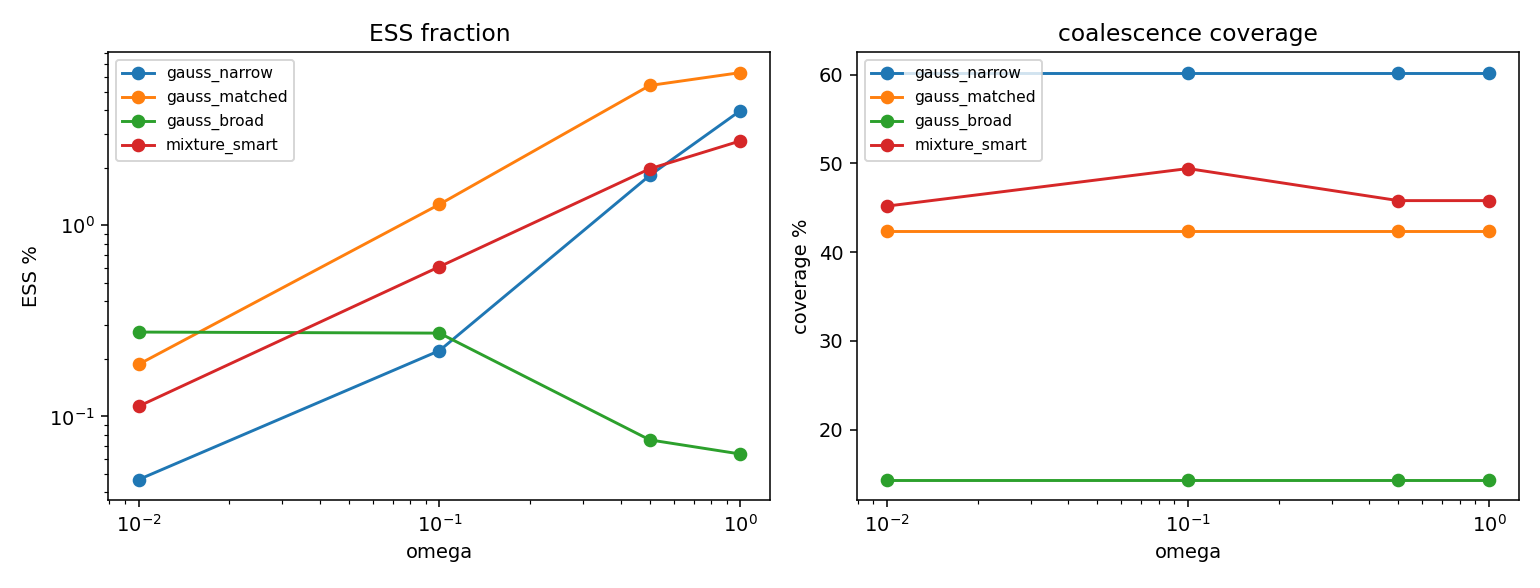
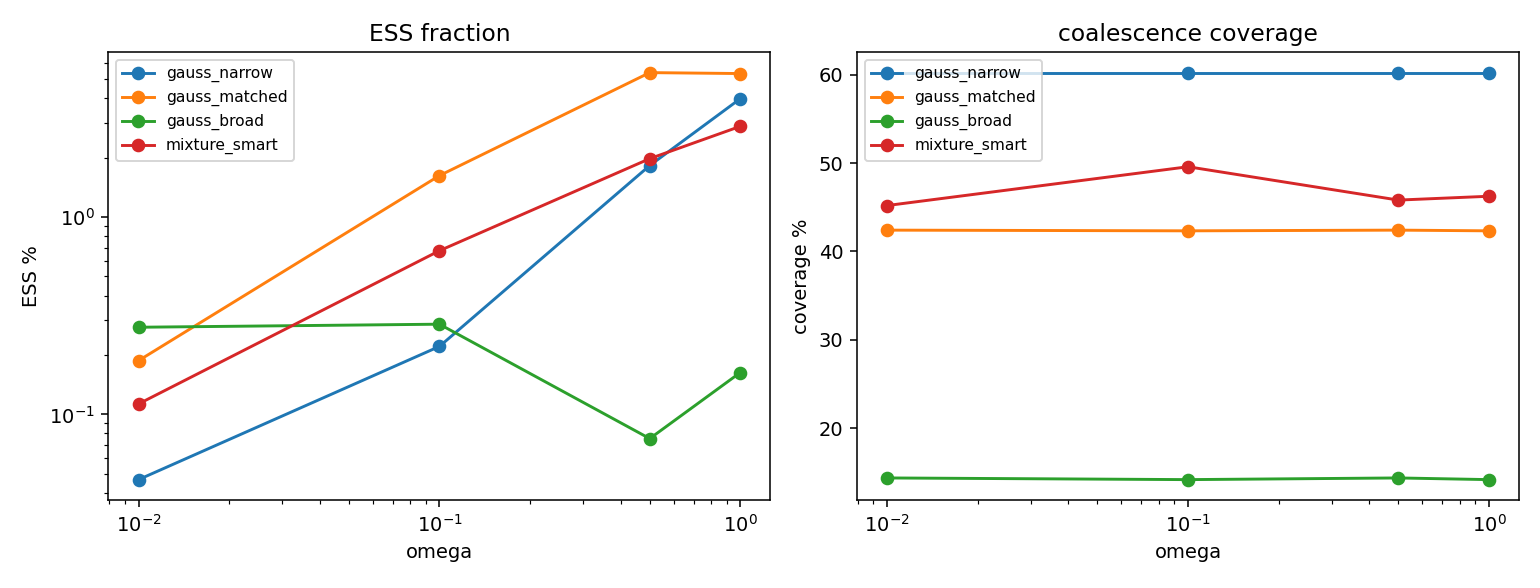
experiment(analysis): proposal kappa — ESS controls conditioning; matched Gaussian dominates mixture 600x
Context: every proposal with ESS>~1% has resolved kappa(A)~1e5; ESS<1% floors at ~1e8 (rank~ESS).
Matched Gaussian (1.3) beats the smart mixture ~600x in kappa and ~2x in ESS at w=0.1 -- but only by
under-covering the tails (coverage bias). Tradeoff is conditioning vs unbiased coverage; current
mixture is far off the efficient frontier. Journaled.

diff --git a/JOURNAL.md b/JOURNAL.md
@@ -24,6 +24,41 @@ The model reads this to understand what has been tried, what worked, what failed
 
 ## Journal
 
+### [2026-06-21b] — Smart proposal vs simple Gaussian: ESS is the conditioning lever, and the adaptive mixture is OFF the efficient frontier
+
+**Motivation:** If ESS/measure governs collocation conditioning (2026-06-21a), how much does the
+trainer's "smart" adaptive Gaussian mixture actually buy over a plain Gaussian? Quantify the
+coverage-vs-efficiency-vs-conditioning exchange-rate.
+**Method:** `scripts/exp_proposal_compare.py` on the N=6 cascade. Proposals: single Gaussian at
+sigma_f/sqrt(omega) for sigma_f in {1.0 narrow, 1.3 matched (= run_weak_form default), 2.5 broad}
+vs the adaptive multi-width mixture. Per (proposal, omega): ESS fraction (4096-draw), coalescence
+coverage (frac with min pair dist < 0.5 ell), tail reach (95th pct max radius / ell), and
+kappa(S)/kappa(A_strong) under that measure (omega in {1, 0.1}).
+**Results:** (i) **ESS controls conditioning directly**: every proposal with ESS >~1% has a
+*resolved* kappa(A)~1e5; every proposal with ESS <1% *floors* at kappa~1e8 (effective rank ~ ESS).
+(ii) **A single matched Gaussian (1.3) dominates the smart mixture on BOTH axes**: at omega=0.1,
+matched ESS=1.6% / kappa(A)=1.5e5 (resolved) vs mixture ESS=0.67% / kappa(A)=9.6e7 (floored) -- ~600x
+better conditioned and ~2x more efficient. (iii) **But matched wins by not covering the hard
+region**: its tail reach is fixed at 4 ell while the density needs 9.5 ell at omega=0.1 and 22 ell
+at omega=0.01; only the mixture's broad components reach there. Narrow (1.0) has the best
+coalescence coverage (60%) but the worst tail (3.1 ell).
+**Interpretation:** "Smart" sampling, as configured (adapt_sigma_fs tiers with very broad
+components), buys *negative* conditioning -- it pays ~600x in kappa and ~2x in ESS to gain tail
+coverage. The matched Gaussian's good conditioning is partly **coverage bias** (it never penalises
+the residual in the uncovered tails, so the solution can be wrong there). The real tradeoff is
+**conditioning vs unbiased coverage**, and the current mixture sits far off the efficient frontier:
+the broad components over-pay for reach. Actionable: the lever is the proposal; a matched core + a
+few targeted broad/coalescence components, or a learned flow (shellflow), should give the needed
+coverage at a fraction of the ESS/conditioning cost.
+**Caveats:** static adapt-tier widths (the trainer also *refits* the gmm / uses shellflow -- not
+tested here); coverage proxies are heuristic; kappa at 96 samples (resolved cases are trustworthy,
+floored cases are lower-bounded). Coverage "bias" is argued, not yet measured against exact tails.
+**Output reference:** [results/analysis/2026-06-21_proposal_compare/](results/analysis/2026-06-21_proposal_compare/)
+(compare.json, fig_proposal_compare.png)
+**Next question:** Does the matched Gaussian's better conditioning actually train to a *better or
+biased* solution vs the mixture (the conditioning-vs-coverage tradeoff, in real energy error)? And
+can a learned/shellflow proposal reach the efficient frontier (full coverage at matched-like ESS)?
+
 ### [2026-06-21] — Collocation-conditioning Phase 0: the sampling measure is the dominant conditioning lever (not strong-vs-weak)
 
 **Motivation:** The VMC SR-null redirected the thesis "conditioning not depth" theory to the
